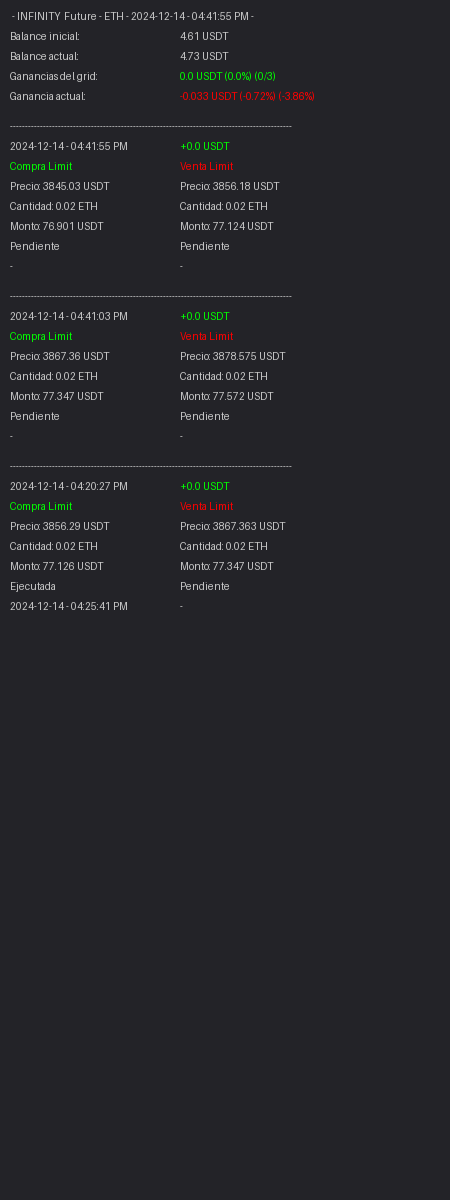
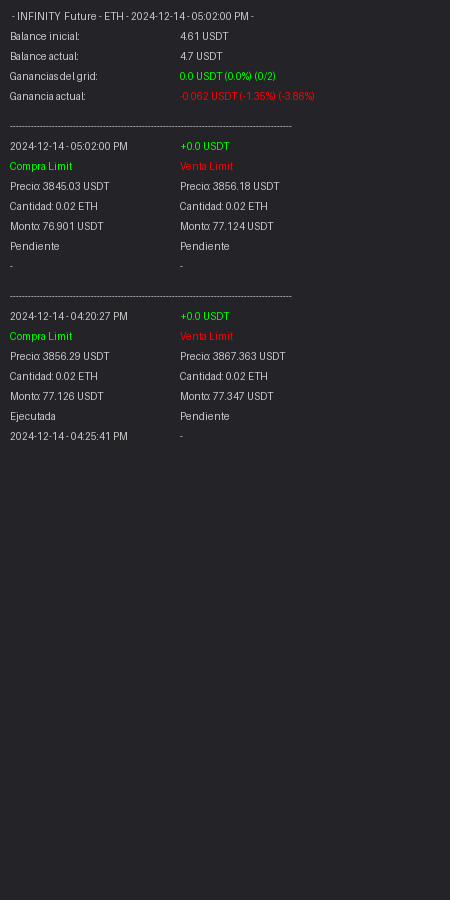
.

Changed region(s): [[0.0, 0.0, 0.28, 0.5289], [0.2489, 0.0, 0.6844, 0.4978]]

diff --git a/future/estrategias/infinity/ejecutables/eva_infinity_2.0.py b/future/estrategias/infinity/ejecutables/eva_infinity_2.0.py
@@ -42,12 +42,18 @@ def actualizar_interfaz():
         # Mostrar clave como texto no editable
         if clave == 'balance_inicial':
             tk.Label(frame_editor, text=f"Balance Inicial ({base_coin}):", anchor="w", width=27).grid(row=0, column=0, padx=1.8, pady=1.8)
-            label_valor = tk.Label(frame_editor, text=round(float(data['balance_inicial']), 2), anchor="w", width=9)
+            if data['inverso']:
+                label_valor = tk.Label(frame_editor, text=round(float(data['balance_inicial']), 8), anchor="w", width=9)
+            else:
+                label_valor = tk.Label(frame_editor, text=round(float(data['balance_inicial']), 2), anchor="w", width=9)
             label_valor.grid(row=0, column=1, padx=1.8, pady=1.8)
 
         if clave == 'balance_actual':
             tk.Label(frame_editor, text=f"Balance Actual ({base_coin}):", anchor="w", width=27).grid(row=1, column=0, padx=1.8, pady=1.8)
-            label_valor = tk.Label(frame_editor, text=round(float(data['balance_actual']), 2), anchor="w", width=9)
+            if data['inverso']:
+                label_valor = tk.Label(frame_editor, text=round(float(data['balance_actual']), 8), anchor="w", width=9)
+            else:
+                label_valor = tk.Label(frame_editor, text=round(float(data['balance_actual']), 2), anchor="w", width=9)
             label_valor.grid(row=1, column=1, padx=1.8, pady=1.8)
 
         if 'balance_inicial' != clave != 'balance_actual':

diff --git a/future/estrategias/infinity/infinity_2.0.py b/future/estrategias/infinity/infinity_2.0.py
@@ -2209,7 +2209,7 @@ def auxiliar():
                 cuenta = inverse.patrimonio(exchange=exchange,symbol=activo)*precio_actual
             else:
                 cuenta = future.patrimonio(exchange=exchange)
-            if not(cuenta*0.999 < monitor < cuenta*1.001):
+            if not(cuenta*0.998 < monitor < cuenta*1.001):
                 monitor = cuenta
                 parametros['balance_inicial'] = str(balance_inicial)
                 parametros['balance_actual'] = str(cuenta)
